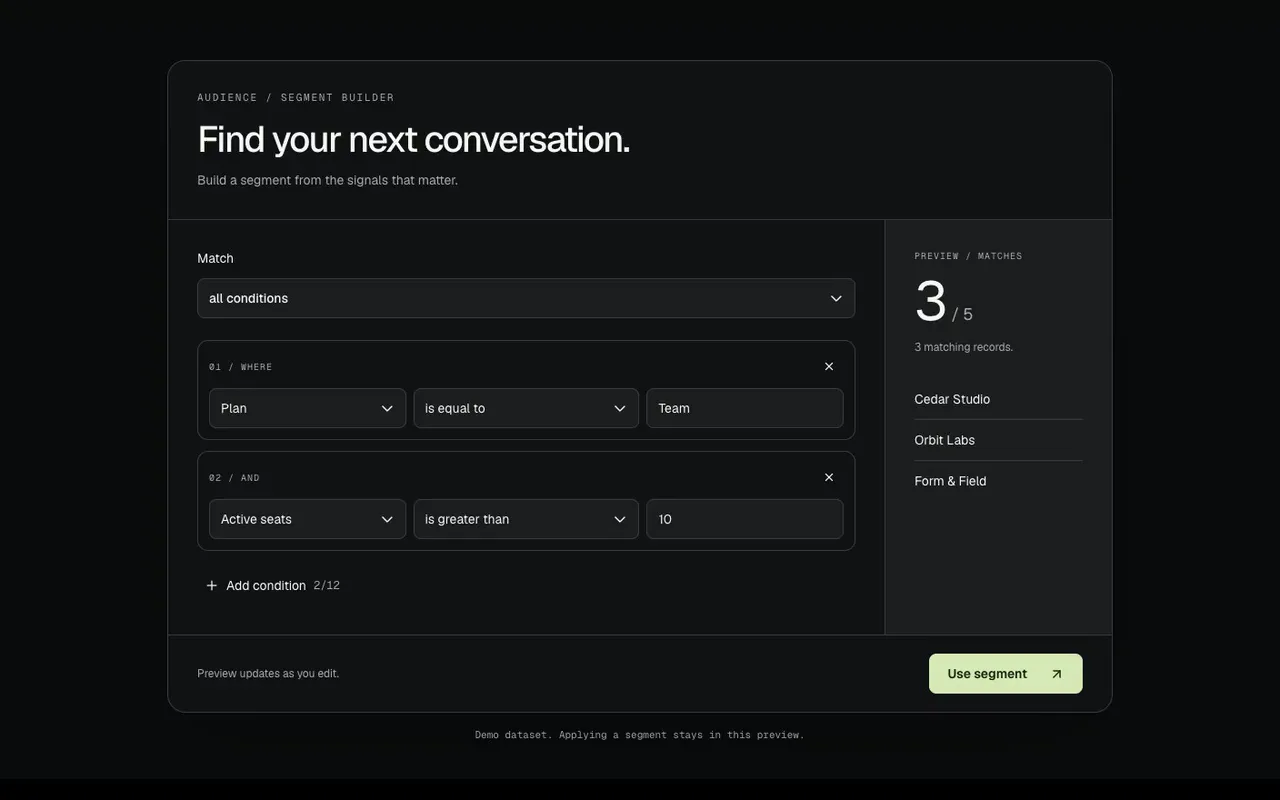
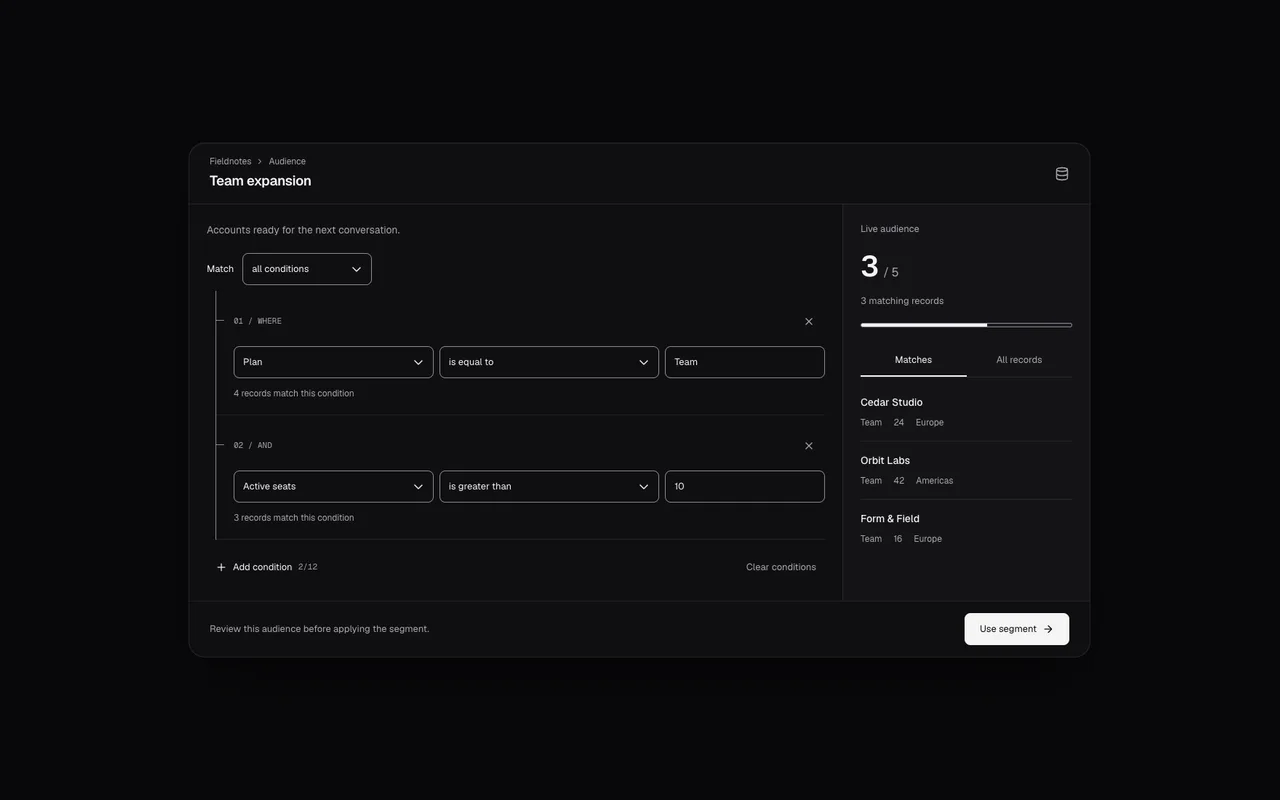
Verify query matching, retries and readable actions

diff --git a/docs/review/HANDOFF_TASKS.md b/docs/review/HANDOFF_TASKS.md
@@ -259,6 +259,8 @@ and how to know it's done. Pick any of them up independently. Background, briefs
 
 - Task 1: Capacity Planner now has a reviewed 4.5s film showing the added allocation, another day’s project detail and the settled saved-plan receipt. Measured 1,100px framing removes unused stage space from the first capture and matches the paired opening poster. Maximum source gap is 12ms, changed-source delivery is 14.7ms and moving-frame p95 is 17.9ms, with no stalls and all guards retained. 120 listed films remain.
 
+- Task 7: Query Builder is rebuilt around connected typed conditions and a live audience ledger. Its 31-mount source review and rewritten Next regression cover exact all/any matches, keyboard menus, independent callback copies, failed retry, pending locks, read-only criteria, missing properties, invalid numeric values and retired replacements. A preserved old-source regression fails at 1.12:1 on the hovered retry button; the action now passes AA. The match count has valid accessible text, and the 320px footer preserves readable prose. Six widths, 20 state/default accessibility audits, entrance/state captures, three controls, official audit, both demo runners and measured 1,100px replay/poster pass. Strict registry, TypeScript and all 1,063 unit tests pass. Its film joins task 1; 29 components and 12 blocks remain in task 7.
+
 ## Ground rules (read first)
 
 - Two repos. Public: `richawo/Design-components-for-AI-agents` (this one). Pro: `richawo/Design-for-AI`, private, cloned
@@ -276,7 +278,7 @@ and how to know it's done. Pick any of them up independently. Background, briefs
 - Browser checks: `node scripts/check-component.mjs <slug> --base=http://localhost:3100 --no-video --keep-going`
   (screenshots at 1440/768/390 and every control flip; read the screenshots it writes to `test-results/check/<slug>/`).
 
-## 1. Re-record demo videos (120 components)
+## 1. Re-record demo videos (121 components)
 
 Every rebuilt component's poster is current but its catalogue film (`public/previews/<slug>.mp4`) still shows the old
 version. Record them one at a time on an otherwise idle machine; the recorder rejects frame stalls under load.
@@ -295,6 +297,7 @@ slug or per small group). Notes:
 
 Slugs:
 
+`data-query-builder`
 `editor-font-pairing`, `editor-keyframe-track`
 `editor-layer-stack`, `editor-spacing-inspector`, `editor-storyboard-strip`, `editor-version-restore`
 `three-exploded-assembly`, `three-material-inspector`, `agents-budget-guard`, `agents-dependency-board`
@@ -424,16 +427,15 @@ All nine parked rebuilds are shipped in both repos. Their original `_wip/<slug>`
 | finance-budget-variance | Completed 17 October: Next probe, dark/light accessibility, responsive and entrance/state captures, live demo and refreshed poster pass. |
 | finance-cashflow-dashboard | Completed 17 October: weekly balance and in/out bars, movable payments, independent pending saves, invalid-data guards, selected-week list geometry, Next probe/demo, both-theme accessibility, responsive/state/entrance captures and refreshed poster pass. |
 
-## 7. Continue the review (30 components, then 12 blocks)
+## 7. Continue the review (29 components, then 12 blocks)
 
-Same process as the 168 already done: hold each to the first ~100 components' standard. Briefs:
+Same process as the 169 already done: hold each to the first ~100 components' standard. Briefs:
 `docs/review/REVIEW_BRIEF.md`, `docs/review/SUITE_BRIEF.md` for industry components, suite languages in
 `docs/review/suites/`. Work newest first, about four components per batch, and verify each (build, tsc, tests,
 check-component, your own captures of states and mid-entrance frames, a refreshed poster, a rewritten pro-50 probe for
 industry components).
 
 - **Commerce** is reviewed. Keep `block-commerce-workspace` compatible with its rebuilt parts.
-- **Others**: data-query-builder.
 - **Smaller components** (#151–179): chart-waterfall-bridge, content-release-notes, cards-event-ticket,
   chart-slope-comparison, chart-bullet-targets, media-story-deck, devtools-request-waterfall, devtools-json-inspector,
   media-before-after, data-kanban-compact, data-file-explorer, forms-preference-center, date-week-agenda,

diff --git a/docs/review/STATUS.md b/docs/review/STATUS.md
@@ -1,6 +1,6 @@
 # Review status
 
-168 components are rebuilt (or, for a few, polished), verified and committed. For each: whether its demo video
+169 components are rebuilt (or, for a few, polished), verified and committed. For each: whether its demo video
 needs re-recording, whether its poster is current, and the state of its browser regression probe.
 
 - **Video**: `new` means `public/previews/<slug>.mp4` still shows the old version. Re-record serially on a quiet machine:
@@ -45,7 +45,7 @@ See [the handoff checkpoint](HANDOFF_TASKS.md#8-final-release-checks) for revisi
 | `mobile-trip-itinerary` | current | current | Next-backed regression, eleven RN-web accessibility states and preview controls pass; keyboard tabs, selected-leg scroll/focus, booking failure/retry, cancellation, supersession, exact payloads, keyed trip replacement and empty/invalid legs covered; poster/guarded film refreshed |
 | `mobile-voice-memo` | current | current | Next-backed regression, twelve RN-web accessibility states and preview controls pass; real waveform drag, keyboard seek bounds, autoplay/transport callbacks, transcript/marker navigation, exact share payloads, fractional/invalid durations, recording resets, readable accents and decimal clock covered; poster/guarded film refreshed |
 
-## Data and charts (10)
+## Data and charts (11)
 
 | Slug | Video | Poster | Probe |
 | --- | --- | --- | --- |
@@ -58,6 +58,7 @@ See [the handoff checkpoint](HANDOFF_TASKS.md#8-final-release-checks) for revisi
 | `data-bulk-action-review` | current | current | Next-backed regression, twenty-eight theme/state accessibility audits, visible-count contrast checks and three controls pass; exact batches, rejection/retry, omitted/conflicting results, held picks, host-removed receipts and read-only handlers covered; monochrome partial-receipt film and settled Next poster refreshed |
 | `data-column-workbench` | current | current | Next-backed regression, twenty-four theme/state accessibility audits and four controls pass; whole-column drag, exact release payloads, keyboard/resize cancellation, focus/shelf retirement, controlled acknowledgement, opaque ids and invalid/empty layouts covered; monochrome 5.8s film and settled Next poster refreshed |
 | `data-filter-history` | current | current | Next-backed regression, thirty theme/state accessibility audits and four controls pass; scrub/restore payloads, independent rename retries, pending locks, late replies, stable snapshot identity, typed rules, readable comparisons and invalid/empty states covered; monochrome full-viewport film and matching settled Next poster refreshed |
+| `data-query-builder` | new | current | Rebuilt connected conditions and live audience ledger; 31-mount source review and Next exact-match/keyboard/retry/pending/copied-payload/read-only/invalid-data/replacement regression pass. A retained old-source hover check fails at 1.12:1; the retry action now passes AA and the audience count has valid accessible text. Six widths, 20 state/default accessibility audits, entrance/state captures, three controls, official audit, both demo runners and measured 1,100px replay/poster pass. The narrow footer keeps its explanation readable. Strict registry, TypeScript and all 1,063 unit tests pass. |
 | `data-pivot-configurator` | current | current | Next-backed regression and focused picker checks, forty theme/state accessibility audits, four controls and normal/reduced-motion travel proof pass; swaps, exact/opaque drill-down keys, context retirement, schema recovery, finite aggregates, valid Count/single-dimension choices and narrow totals covered; monochrome full-viewport film and matching Next poster refreshed |
 
 ## Editors and 3D (12)
